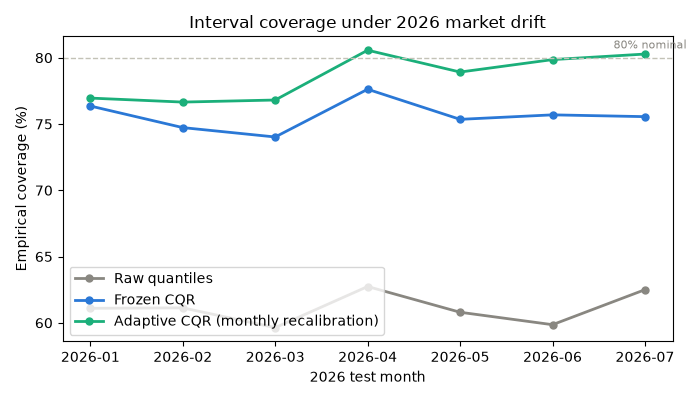
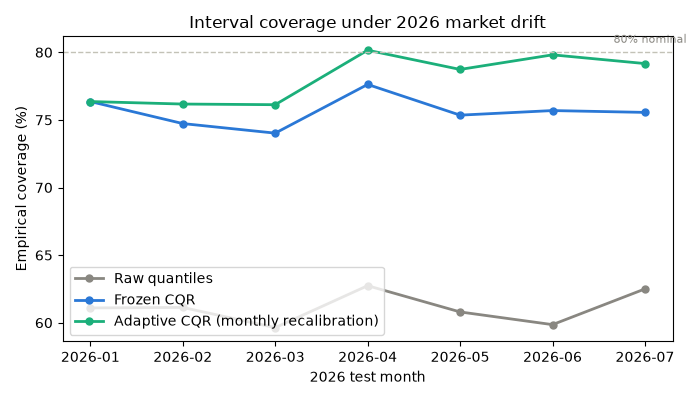
fix: adaptive CQR used window-1 trailing months; recompute artifacts
The recalibration filter 'month > pricing_month - window' kept only
window-1 completed months of history, contradicting the documented
trailing-window semantics. Also create MODEL_DIR before the first write
in the pipeline. Adaptive coverage artifacts and the model card now
reflect the corrected window (78.4% -> 77.9% on the 2026 test).

diff --git a/scripts/run_pipeline.py b/scripts/run_pipeline.py
@@ -141,6 +141,7 @@ def main(refresh: bool) -> None:
     }
 
     # Conformal calibration on the most recent 6 months of validation data
+    MODEL_DIR.mkdir(parents=True, exist_ok=True)
     recent = val[val["month"] >= (val["month"].max() - 5)]
     q_hat = cqr_correction(bundle, recent, coverage=0.80)
     np.save(MODEL_DIR / "q_hat.npy", q_hat)
@@ -152,7 +153,6 @@ def main(refresh: bool) -> None:
 
     monthly, adaptive_overall = adaptive_qhat(bundle, val, test, coverage=0.80)
     metrics["test_2026"]["interval_p10_p90_adaptive"] = adaptive_overall
-    MODEL_DIR.mkdir(parents=True, exist_ok=True)
     monthly.to_csv(MODEL_DIR / "adaptive_coverage.csv", index=False)
     make_adaptive_figure(bundle, test, q_hat, monthly)
 

diff --git a/src/hdblens/conformal.py b/src/hdblens/conformal.py
@@ -60,7 +60,7 @@ def adaptive_qhat(
     history = calib
     rows, ys, los, his = [], [], [], []
     for month, grp in test.groupby("month", sort=True):
-        recent = history[history["month"] > month - window]
+        recent = history[history["month"] >= month - window]
         q_hat = cqr_correction(bundle, recent, coverage)
         lo, hi = predict_interval(bundle, grp, q_hat)
         y = grp[TARGET].to_numpy()

diff --git a/reports/model_card.md b/reports/model_card.md
@@ -15,7 +15,7 @@ Indicative pricing for Singapore HDB resale flats: buyer/seller anchoring, affor
 | Validation (2025) | 25,085 | S$33,929 | 4.92% | 0.941 |
 | Test (2026 H1) | 12,605 | S$39,942 | 5.69% | 0.925 |
 
-P10–P90 interval on 2026 test: 75.7% empirical coverage after CQR frozen at deployment (nominal 80%), median width 15.5% of price. Recalibrating monthly against trailing observed sales (adaptive CQR) recovers 78.4% coverage at a median width of 16.7%.
+P10–P90 interval on 2026 test: 75.7% empirical coverage after CQR frozen at deployment (nominal 80%), median width 15.5% of price. Recalibrating monthly against the trailing six months of observed sales (adaptive CQR) recovers 77.9% coverage at a median width of 16.5%.
 
 ## Known limitations
 - Coverage degrades under sustained price drift; the model cannot extrapolate the time trend.